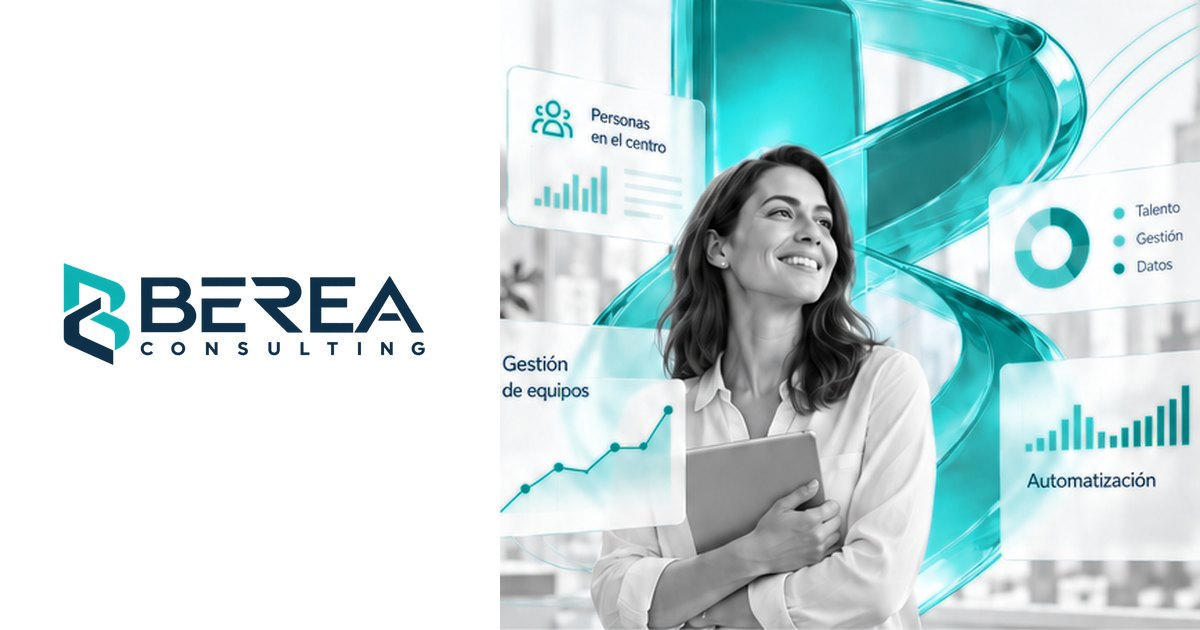
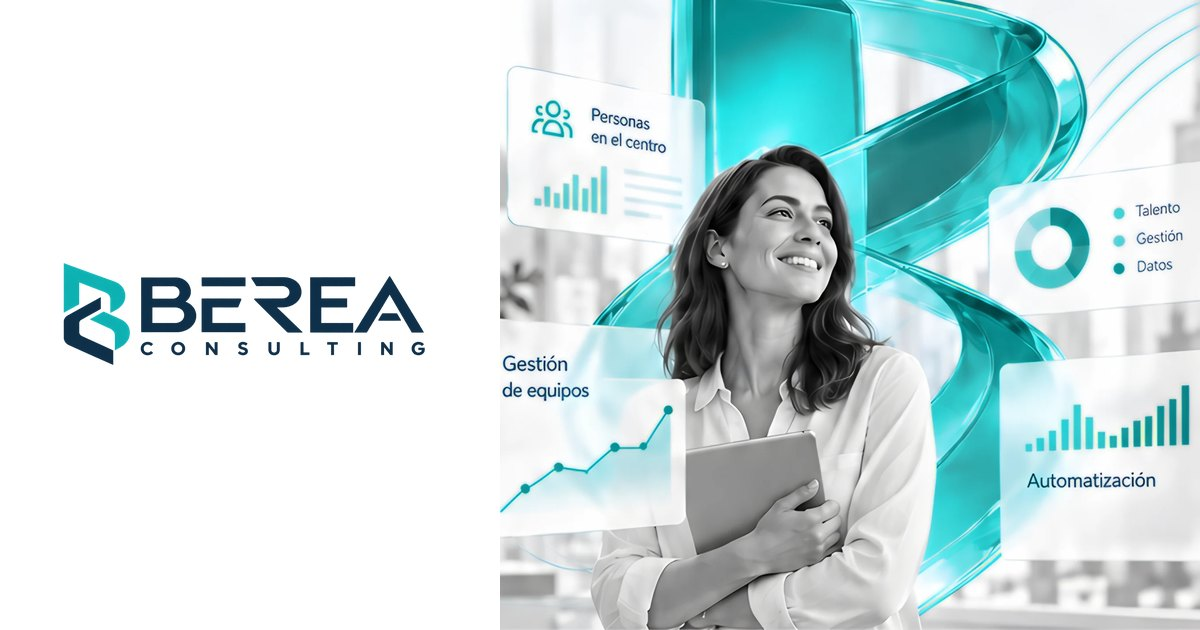
Portada en alta resolución (1800 px, ampliada con Real-ESRGAN) y en WebP
La imagen original de 574 px se veía pixelada al mostrarse a sangre.
Se guarda la versión ampliada en originales/ y el ajuste de color se aplica sobre ella.

Claude-Session: https://claude.ai/code/session_019fz2MoRtJ9uzSCWjCz9ZtR

diff --git a/web/index.html b/web/index.html
@@ -60,7 +60,7 @@
       <a class="button" href="#servicios">Conoce nuestras soluciones <svg class="icon arrow" viewBox="0 0 24 24" aria-hidden="true" focusable="false"><path d="M5 12h14"/><path d="m12 5 7 7-7 7"/></svg></a>
     </div>
     <figure class="hero-art">
-      <img src="/assets/portada-tech.png?v=20261003" alt="Profesional sonriente con una tablet, rodeada de paneles de datos y una forma tecnológica turquesa" width="574" height="456" fetchpriority="high">
+      <img src="/assets/portada-tech.webp?v=20261003" alt="Profesional sonriente con una tablet, rodeada de paneles de datos y una forma tecnológica turquesa" width="1800" height="1430" fetchpriority="high">
     </figure>
   </div>
 </section>

diff --git a/scripts/ajustar_portada.py b/scripts/ajustar_portada.py
@@ -1,6 +1,7 @@
 """Acerca el cian de la portada al turquesa del logo, sin tocar las zonas en gris.
 
-Lee originales/portada-tech.png y escribe web/assets/portada-tech.png.
+Lee originales/portada-tech-hd.png (versión ampliada 4× con Real-ESRGAN a partir de
+originales/portada-tech.png) y escribe web/assets/portada-tech.webp a 1800 px de ancho.
     pip install pillow numpy
     python scripts/ajustar_portada.py [intensidad]   # 0 = original, 1 = ajuste completo
 Solo cambia el color: la composición, la persona y la ciudad quedan iguales.
@@ -13,7 +14,11 @@ from PIL import Image, ImageFilter
 RAIZ = Path(__file__).resolve().parent.parent
 k = float(sys.argv[1]) if len(sys.argv) > 1 else 1.0
 
-rgb = np.asarray(Image.open(RAIZ / "originales/portada-tech.png").convert("RGB")).astype(np.float32) / 255
+fuente = RAIZ / "originales/portada-tech-hd.png"
+if not fuente.exists():
+    fuente = RAIZ / "originales/portada-tech.png"
+base = Image.open(fuente).convert("RGB")
+rgb = np.asarray(base).astype(np.float32) / 255
 mx, mn = rgb.max(2), rgb.min(2)
 l = (mx + mn) / 2
 d = mx - mn
@@ -26,7 +31,7 @@ h = np.where(d == 0, 0, h)
 # Se mide por croma (intensidad absoluta del color), que no se dispara en los blancos,
 # y se suaviza para que la transición no deje manchas.
 w = np.clip((d - 0.05) / 0.28, 0, 1)
-w = np.asarray(Image.fromarray((w * 255).astype(np.uint8)).filter(ImageFilter.GaussianBlur(1.5))).astype(np.float32) / 255 * k
+w = np.asarray(Image.fromarray((w * 255).astype(np.uint8)).filter(ImageFilter.GaussianBlur(1.5 * base.width / 574))).astype(np.float32) / 255 * k
 h2 = h + (180 - h) * 0.9 * w            # tono hacia el turquesa del logo (180°)
 l2 = l * (1 - 0.26 * w)                 # menos pastel, más profundo
 s2 = s * (1 - 0.06 * w)
@@ -42,5 +47,8 @@ for i, (a1, a2, a3) in enumerate(tabla):
     sel = seg == i
     for ch, val in enumerate((a1, a2, a3)):
         out[..., ch][sel] = (val + m)[sel]
-Image.fromarray((np.clip(out, 0, 1) * 255 + .5).astype(np.uint8)).save(RAIZ / "web/assets/portada-tech.png", optimize=True)
+final = Image.fromarray((np.clip(out, 0, 1) * 255 + .5).astype(np.uint8))
+ancho = min(1800, final.width)
+final = final.resize((ancho, round(final.height * ancho / final.width)), Image.LANCZOS)
+final.save(RAIZ / "web/assets/portada-tech.webp", quality=86, method=6)
 print("Portada ajustada con intensidad", k)

diff --git a/build.py b/build.py
@@ -256,7 +256,7 @@ def pagina_inicio():
       <a class="button" href="#servicios">{e(i["boton"])} {FLECHA}</a>
     </div>
     <figure class="hero-art">
-      <img src="/assets/portada-tech.png?v={VERSION}" alt="{e(i["portada_alt"])}" width="574" height="456" fetchpriority="high">
+      <img src="/assets/portada-tech.webp?v={VERSION}" alt="{e(i["portada_alt"])}" width="1800" height="1430" fetchpriority="high">
     </figure>
   </div>
 </section>

diff --git a/scripts/generar_imagenes.py b/scripts/generar_imagenes.py
@@ -57,7 +57,7 @@ def main():
 
     og = A / "social"
     og.mkdir(exist_ok=True)
-    social(A / "portada-tech.png", og / "inicio.jpg")
+    social(A / "portada-tech.webp", og / "inicio.jpg")
     datos = json.loads((RAIZ / "contenido.json").read_text(encoding="utf-8"))
     for srv in datos["servicios"]:
         social(A / f"foto-{srv['foto']}.jpg", og / f"{srv['slug']}.jpg")
